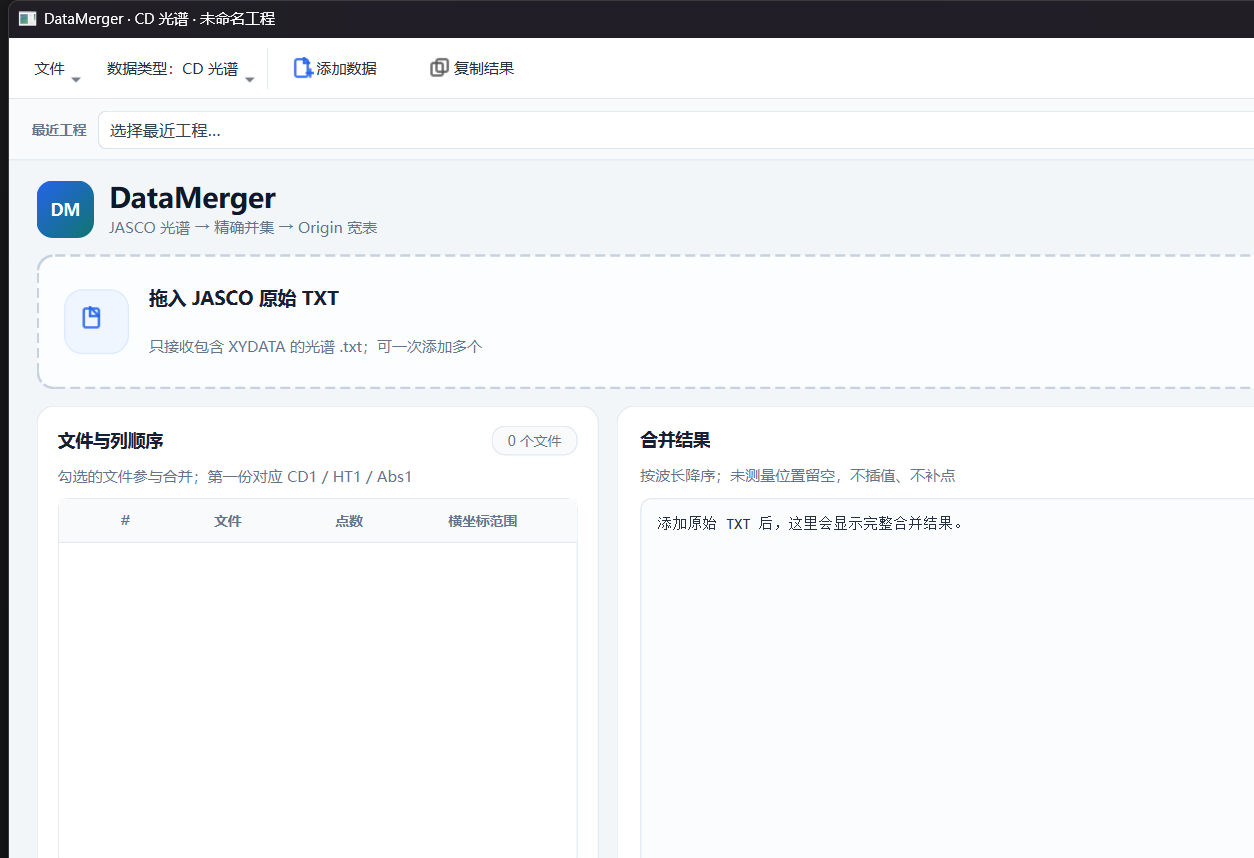
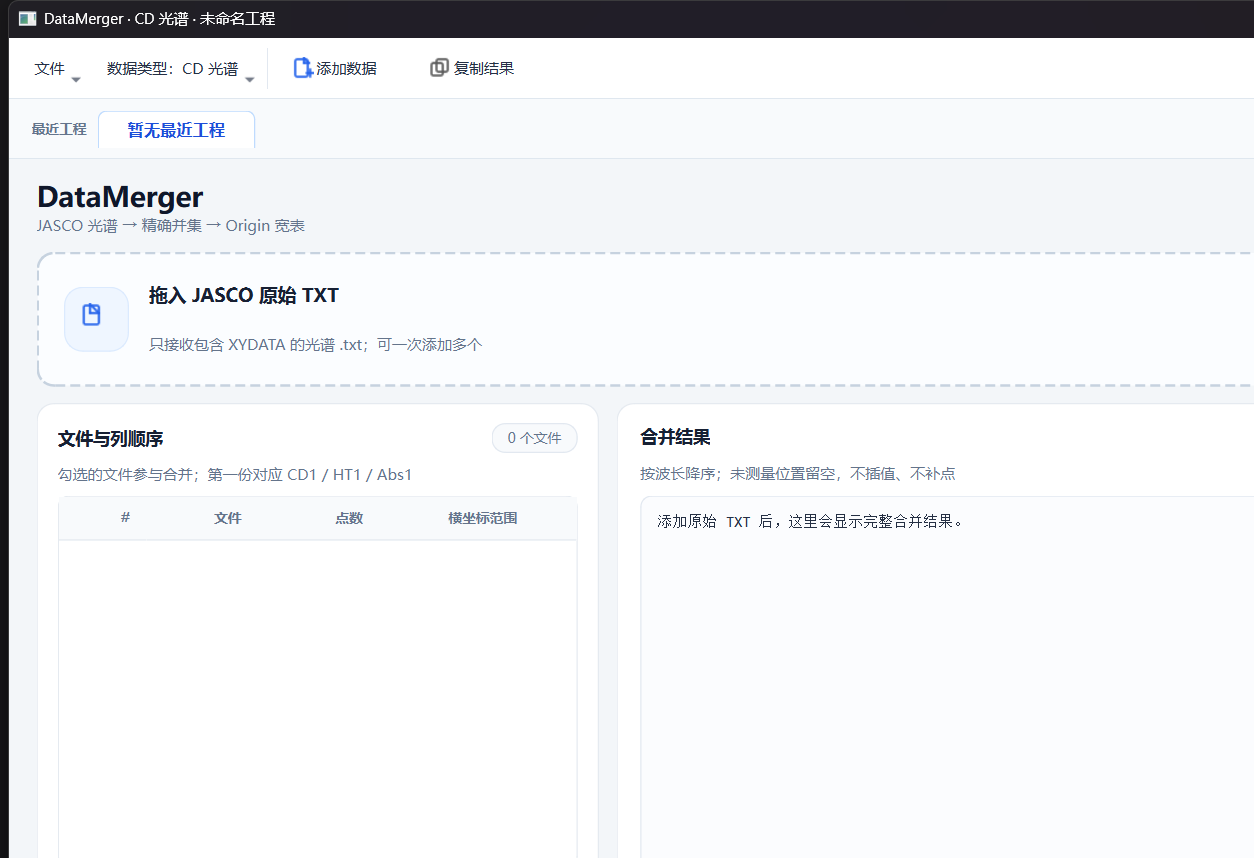
Fix popup menus and show recent projects as tabs

diff --git a/ui_main.py b/ui_main.py
@@ -24,7 +24,6 @@ from PySide6.QtGui import (
 from PySide6.QtWidgets import (
     QAbstractItemView,
     QCheckBox,
-    QComboBox,
     QFileDialog,
     QFrame,
     QHBoxLayout,
@@ -38,6 +37,7 @@ from PySide6.QtWidgets import (
     QSizePolicy,
     QTableWidget,
     QTableWidgetItem,
+    QTabBar,
     QToolBar,
     QToolButton,
     QVBoxLayout,
@@ -265,10 +265,12 @@ class MainWindow(QMainWindow):
         self.add_files_action.triggered.connect(self._choose_files)
         self.copy_action.triggered.connect(self._copy_result)
 
-        file_button = QToolButton()
-        file_button.setPopupMode(QToolButton.ToolButtonPopupMode.InstantPopup)
-        file_button.setText("文件")
-        file_menu = QMenu(file_button)
+        self.file_button = QToolButton()
+        self.file_button.setPopupMode(QToolButton.ToolButtonPopupMode.InstantPopup)
+        self.file_button.setText("文件")
+        self.file_menu = QMenu(self.file_button)
+        self.file_menu.setObjectName("fileMenu")
+        self.file_menu.setFont(_font(10))
         for action in (
             self.new_action,
             self.open_project_action,
@@ -276,13 +278,15 @@ class MainWindow(QMainWindow):
             self.save_as_action,
             self.close_project_action,
         ):
-            file_menu.addAction(action)
-        file_button.setMenu(file_menu)
-        self.toolbar.addWidget(file_button)
+            self.file_menu.addAction(action)
+        self.file_button.setMenu(self.file_menu)
+        self.toolbar.addWidget(self.file_button)
 
         self.type_button = QToolButton()
         self.type_button.setPopupMode(QToolButton.ToolButtonPopupMode.InstantPopup)
         self.type_menu = QMenu(self.type_button)
+        self.type_menu.setObjectName("typeMenu")
+        self.type_menu.setFont(_font(10))
         self.cd_action = QAction("CD 光谱", self)
         self.electrochem_action = QAction("电化学", self)
         self.cd_action.setCheckable(True)
@@ -312,14 +316,19 @@ class MainWindow(QMainWindow):
         recent_layout.setSpacing(9)
         recent_label = QLabel("最近工程")
         recent_label.setObjectName("recentLabel")
-        self.recent_combo = QComboBox()
-        self.recent_combo.setObjectName("recentCombo")
-        self.recent_combo.setMinimumWidth(360)
-        self.recent_combo.currentIndexChanged.connect(
+        self.recent_tabs = QTabBar()
+        self.recent_tabs.setObjectName("recentTabs")
+        self.recent_tabs.setDocumentMode(True)
+        self.recent_tabs.setExpanding(False)
+        self.recent_tabs.setMovable(False)
+        self.recent_tabs.setTabsClosable(False)
+        self.recent_tabs.setUsesScrollButtons(True)
+        self.recent_tabs.setElideMode(Qt.TextElideMode.ElideRight)
+        self.recent_tabs.currentChanged.connect(
             self._recent_project_selected
         )
         recent_layout.addWidget(recent_label)
-        recent_layout.addWidget(self.recent_combo, 1)
+        recent_layout.addWidget(self.recent_tabs, 1)
         self.addToolBarBreak(Qt.ToolBarArea.TopToolBarArea)
         self.addToolBar(Qt.ToolBarArea.TopToolBarArea, self._wrap_recent_bar(recent_host))
 
@@ -341,11 +350,6 @@ class MainWindow(QMainWindow):
 
         header = QHBoxLayout()
         header.setSpacing(12)
-        logo = QLabel("DM")
-        logo.setObjectName("logo")
-        logo.setAlignment(Qt.AlignmentFlag.AlignCenter)
-        logo.setFixedSize(46, 46)
-        header.addWidget(logo)
         title_box = QVBoxLayout()
         title_box.setSpacing(1)
         title = QLabel("DataMerger")
@@ -595,6 +599,7 @@ class MainWindow(QMainWindow):
         self.project_path = None
         self._dirty = False
         self._apply_data_type(data_type)
+        self._refresh_recent_projects()
 
     def _choose_files(self) -> None:
         initial = (
@@ -947,6 +952,7 @@ class MainWindow(QMainWindow):
         self._dirty = False
         self._refresh_table()
         self._schedule_merge()
+        self._refresh_recent_projects()
         self._update_window_title()
 
     def _close_project(self) -> None:
@@ -1056,29 +1062,46 @@ class MainWindow(QMainWindow):
 
     def _refresh_recent_projects(self) -> None:
         self._refreshing_recent = True
-        blocker = QSignalBlocker(self.recent_combo)
-        self.recent_combo.clear()
-        self.recent_combo.addItem("选择最近工程…", "")
-        for path in load_recent_projects(self.recent_config):
+        blocker = QSignalBlocker(self.recent_tabs)
+        while self.recent_tabs.count():
+            self.recent_tabs.removeTab(0)
+        recent = load_recent_projects(self.recent_config)
+        if not recent:
+            index = self.recent_tabs.addTab("暂无最近工程")
+            self.recent_tabs.setTabData(index, "")
+            self.recent_tabs.setTabEnabled(index, False)
+        for path in recent:
             source = Path(path)
-            label = f"{source.stem} — {source.parent}"
-            self.recent_combo.addItem(label, path)
-            self.recent_combo.setItemData(
-                self.recent_combo.count() - 1,
-                path,
-                Qt.ItemDataRole.ToolTipRole,
-            )
-        self.recent_combo.setCurrentIndex(0)
+            index = self.recent_tabs.addTab(source.stem)
+            self.recent_tabs.setTabData(index, path)
+            self.recent_tabs.setTabToolTip(index, str(source))
+        self._select_current_recent_tab()
         del blocker
         self._refreshing_recent = False
 
-    def _recent_project_selected(self, index: int) -> None:
-        if self._refreshing_recent or index <= 0:
+    def _select_current_recent_tab(self) -> None:
+        if self.project_path is None:
+            self.recent_tabs.setCurrentIndex(-1)
             return
-        path = self.recent_combo.itemData(index)
+        current = os.path.normcase(str(self.project_path.resolve(strict=False)))
+        for index in range(self.recent_tabs.count()):
+            path = self.recent_tabs.tabData(index)
+            if (
+                isinstance(path, str)
+                and path
+                and os.path.normcase(str(Path(path).resolve(strict=False))) == current
+            ):
+                self.recent_tabs.setCurrentIndex(index)
+                return
+        self.recent_tabs.setCurrentIndex(-1)
+
+    def _recent_project_selected(self, index: int) -> None:
+        if self._refreshing_recent or index < 0:
+            return
+        path = self.recent_tabs.tabData(index) if index >= 0 else ""
         if isinstance(path, str) and path:
             if not self._open_project(path):
-                self.recent_combo.setCurrentIndex(0)
+                self._select_current_recent_tab()
 
     def dragEnterEvent(self, event) -> None:  # type: ignore[no-untyped-def]
         if event.mimeData().hasUrls() and any(
@@ -1154,20 +1177,31 @@ QLabel#recentLabel {
     font-size: 11px;
     font-weight: 600;
 }
-QComboBox#recentCombo {
-    background: #ffffff;
-    border: 1px solid #dbe3ec;
-    border-radius: 7px;
-    padding: 5px 9px;
-    color: #334155;
+QTabBar#recentTabs {
+    background: transparent;
+    border: none;
+    qproperty-drawBase: 0;
 }
-QLabel#logo {
-    background: qlineargradient(x1:0, y1:0, x2:1, y2:1, stop:0 #2563eb, stop:1 #0f766e);
-    color: white;
-    border-radius: 13px;
-    font-family: "Segoe UI";
-    font-size: 14px;
-    font-weight: 700;
+QTabBar#recentTabs::tab {
+    background: #eef3f8;
+    color: #475569;
+    border: 1px solid #dbe3ec;
+    border-bottom: none;
+    border-top-left-radius: 7px;
+    border-top-right-radius: 7px;
+    min-width: 92px;
+    max-width: 230px;
+    padding: 6px 16px;
+    margin-right: 3px;
+}
+QTabBar#recentTabs::tab:selected {
+    background: #ffffff;
+    color: #1d4ed8;
+    border-color: #bfdbfe;
+    font-weight: 600;
+}
+QTabBar#recentTabs::tab:hover:!selected {
+    background: #f5f8fb;
 }
 QLabel#title {
     font-family: "Microsoft YaHei UI";
@@ -1297,17 +1331,28 @@ QCheckBox {
 }
 QMenu {
     background: white;
+    color: #253044;
     border: 1px solid #dfe7ef;
     border-radius: 8px;
     padding: 5px;
+    font-family: "Microsoft YaHei UI";
+    font-size: 12px;
 }
 QMenu::item {
+    color: #253044;
+    background: transparent;
+    font-family: "Microsoft YaHei UI";
+    font-size: 12px;
+    min-height: 20px;
     padding: 7px 28px 7px 24px;
     border-radius: 5px;
 }
 QMenu::item:selected {
     background: #eff6ff;
     color: #1d4ed8;
+}
+QMenu::item:disabled {
+    color: #94a3b8;
 }
 QMenu::indicator:checked {
     background: #2563eb;

diff --git a/tests/test_ui_smoke.py b/tests/test_ui_smoke.py
@@ -9,7 +9,7 @@ os.environ.setdefault("QT_QPA_PLATFORM", "offscreen")
 
 from PySide6.QtCore import QMimeData, QPointF, Qt, QUrl  # noqa: E402
 from PySide6.QtGui import QColor, QDropEvent  # noqa: E402
-from PySide6.QtWidgets import QApplication  # noqa: E402
+from PySide6.QtWidgets import QApplication, QTabBar, QWidget  # noqa: E402
 
 from app import MainWindow  # noqa: E402
 
@@ -112,7 +112,17 @@ class UiSmokeTests(unittest.TestCase):
 
     def test_toolbar_and_electrochem_mode(self) -> None:
         self.assertTrue(self.window.toolbar.isVisible() or not self.window.isVisible())
-        self.assertGreaterEqual(self.window.recent_combo.count(), 1)
+        self.assertIsInstance(self.window.recent_tabs, QTabBar)
+        self.assertGreaterEqual(self.window.recent_tabs.count(), 1)
+        self.assertIsNone(self.window.findChild(QWidget, "logo"))
+        self.assertEqual(
+            [action.text() for action in self.window.file_menu.actions()],
+            ["新建工程", "打开工程", "保存工程", "工程另存为", "关闭工程"],
+        )
+        self.assertEqual(
+            [action.text() for action in self.window.type_menu.actions()],
+            ["CD 光谱", "电化学"],
+        )
         self.window._apply_data_type("electrochem")
         self.window._add_paths(
             [str(FIXTURES / "OER_A.txt"), str(FIXTURES / "OER_B.txt")]
@@ -138,6 +148,12 @@ class UiSmokeTests(unittest.TestCase):
         self.window.project_path = Path(self.temp.name) / "ui-test.dmproj"
         self.assertTrue(self.window._save_project())
         self.assertFalse(self.window._dirty)
+        self.assertEqual(self.window.recent_tabs.count(), 1)
+        self.assertEqual(
+            self.window.recent_tabs.tabData(0),
+            str(self.window.project_path.resolve()),
+        )
+        self.assertEqual(self.window.recent_tabs.currentIndex(), 0)
 
         self.assertTrue(self.window._open_project(str(self.window.project_path)))
         self.assertEqual(self.window.data_type, "cd")
@@ -146,6 +162,26 @@ class UiSmokeTests(unittest.TestCase):
             self.window.project_path,
             (Path(self.temp.name) / "ui-test.dmproj").resolve(),
         )
+
+    def test_recent_tabs_switch_between_projects(self) -> None:
+        first = Path(self.temp.name) / "first.dmproj"
+        second = Path(self.temp.name) / "second.dmproj"
+        self.window._add_paths([str(FIXTURES / "A.txt")])
+        self.window.project_path = first
+        self.assertTrue(self.window._save_project())
+
+        self.window._new_project()
+        self.window._add_paths([str(FIXTURES / "B.txt")])
+        self.window.project_path = second
+        self.assertTrue(self.window._save_project())
+        self.assertEqual(self.window.recent_tabs.count(), 2)
+        self.assertEqual(self.window.recent_tabs.tabText(0), "second")
+        self.assertEqual(self.window.recent_tabs.tabText(1), "first")
+
+        self.window.recent_tabs.setCurrentIndex(1)
+        self.app.processEvents()
+        self.assertEqual(self.window.project_path, first.resolve())
+        self.assertEqual(self.window.entries[0].path.name, "A.txt")
 
 
 if __name__ == "__main__":

diff --git a/README.md b/README.md
@@ -36,7 +36,7 @@
 - 文件：新建、打开、保存、另存为、关闭工程。
 - 数据类型：`CD 光谱`、`电化学`。
 - 添加数据、复制结果。
-- 下方“最近工程”快捷栏。
+- 下方“最近工程”横向标签栏，可快速切换最近打开的工程。
 
 工程文件使用 `.dmproj`，本质是可读 JSON。只保存源文件绝对路径和每个文件的勾选状态，不复制源数据：
 
